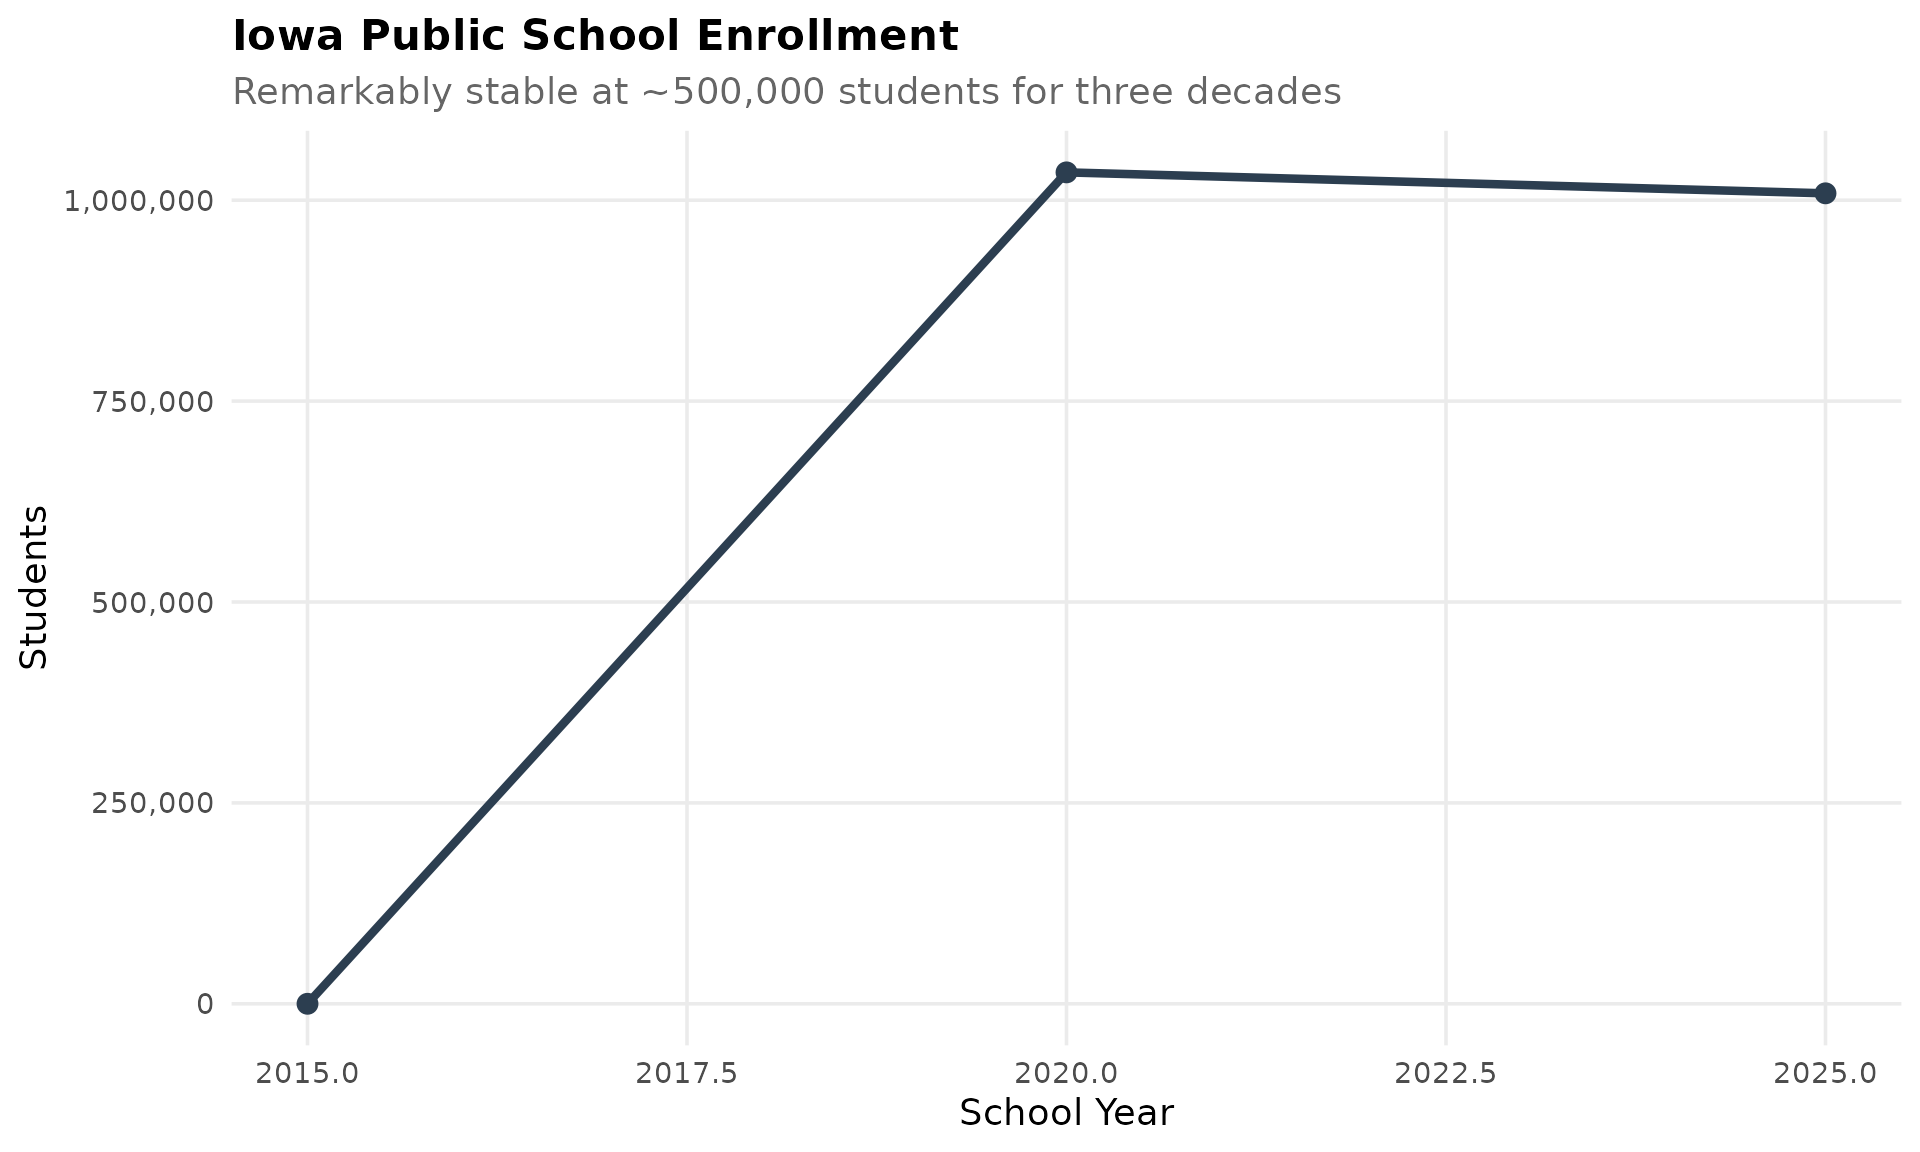
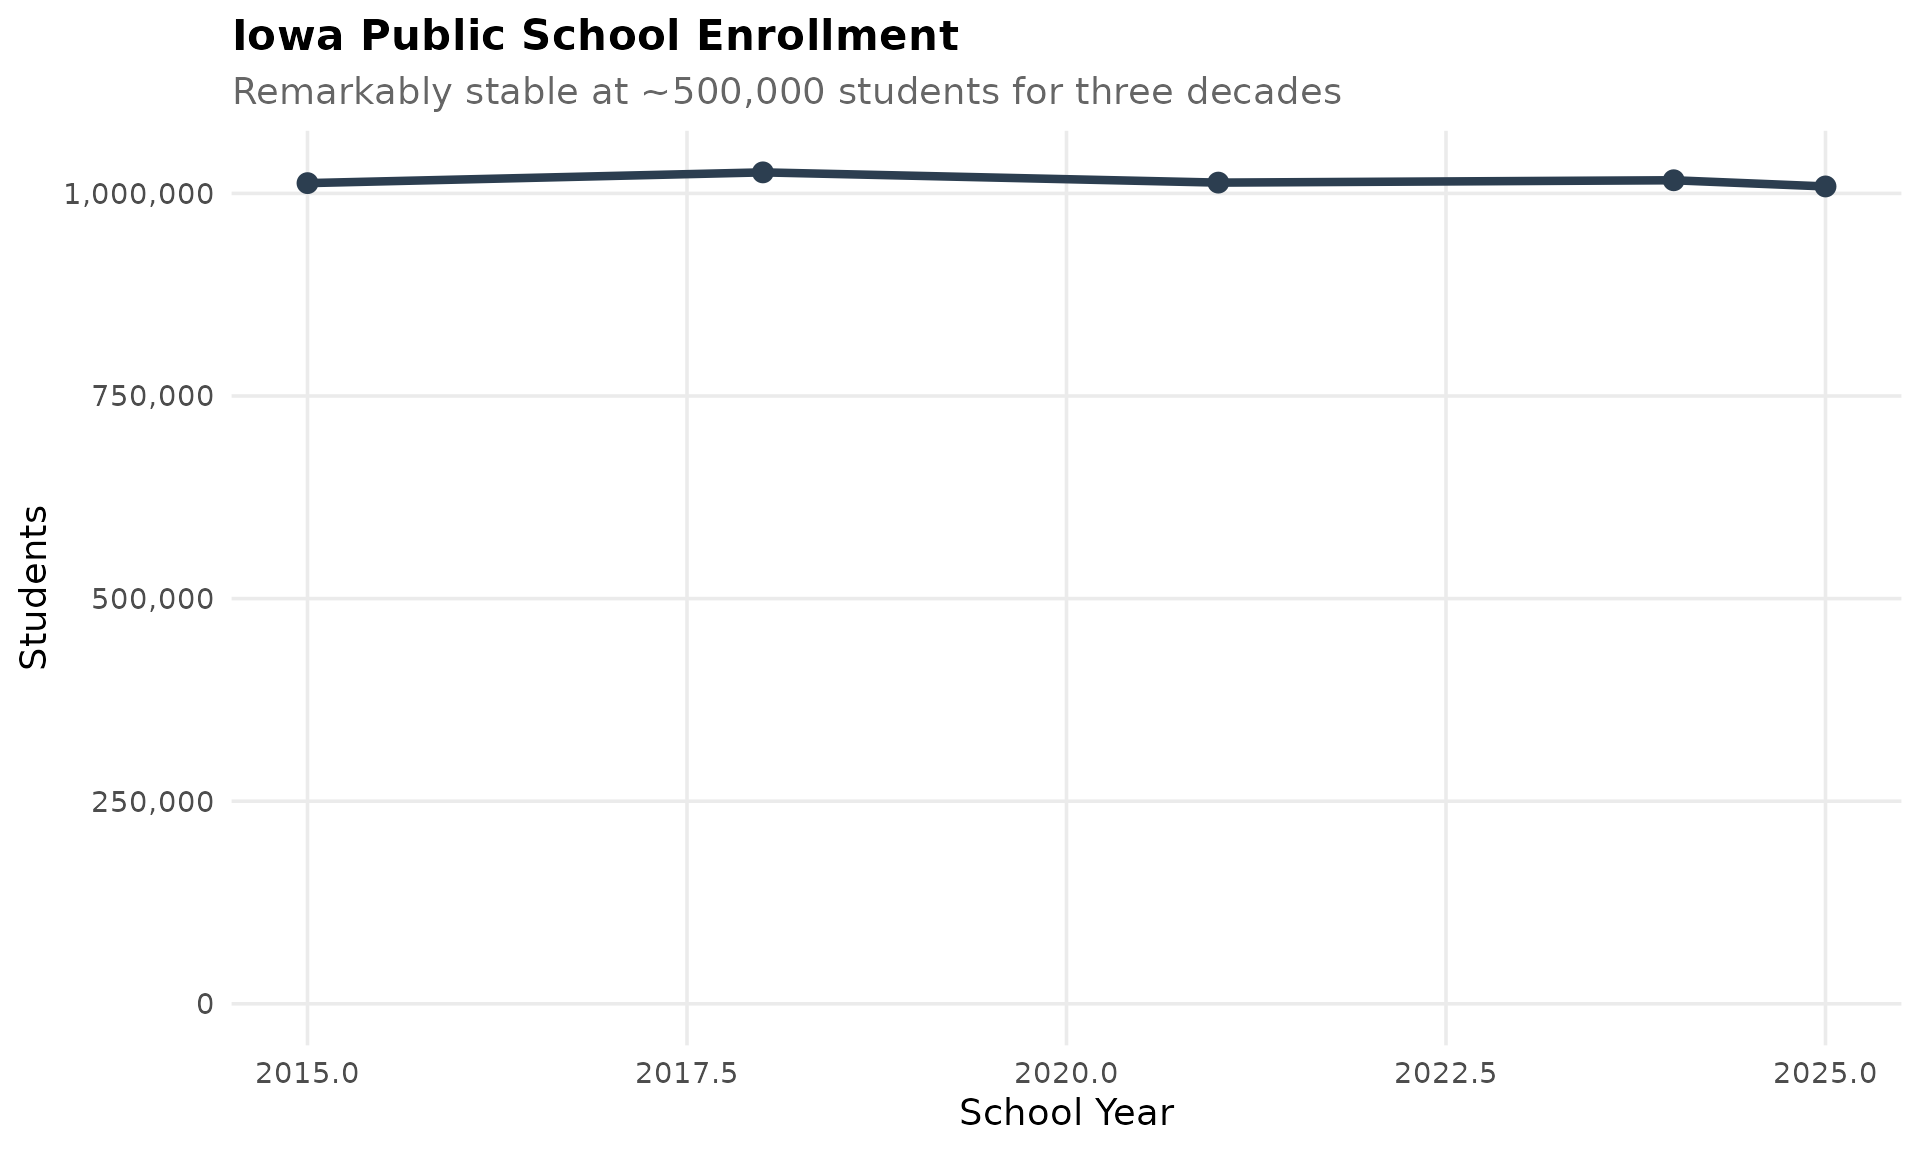
Deploying to gh-pages from @ almartin82/iaschooldata@6070437c745483dc05b7a28452383b364dd1335b 🚀

diff --git a/CLAUDE.html b/CLAUDE.html
@@ -42,12 +42,11 @@
 <hr></div>
 <div id="claude-code-instructions" class="section level1">
 
-<div class="section level2">
-<h2 id="git-commits-and-prs">Git Commits and PRs<a class="anchor" aria-label="anchor" href="#git-commits-and-prs"></a></h2>
-<ul><li>NEVER reference Claude, Claude Code, or AI assistance in commit messages</li>
-<li>NEVER reference Claude, Claude Code, or AI assistance in PR descriptions</li>
-<li>NEVER add Co-Authored-By lines mentioning Claude or Anthropic</li>
-<li>Keep commit messages focused on what changed, not how it was written</li>
+<div class="section level3">
+<h3 id="git-commit-policy">GIT COMMIT POLICY<a class="anchor" aria-label="anchor" href="#git-commit-policy"></a></h3>
+<ul><li>Commits are allowed</li>
+<li>NO Claude Code attribution, NO Co-Authored-By trailers, NO emojis</li>
+<li>Write normal commit messages as if a human wrote them</li>
 </ul><hr></div>
 <div class="section level2">
 <h2 id="local-testing-before-prs-required">Local Testing Before PRs (REQUIRED)<a class="anchor" aria-label="anchor" href="#local-testing-before-prs-required"></a></h2>
@@ -103,6 +102,41 @@
 <div class="sourceCode" id="cb2"><pre class="downlit sourceCode r">
 <code class="sourceCode R"><span><span class="fu">devtools</span><span class="fu">::</span><span class="fu">test</span><span class="op">(</span>filter <span class="op">=</span> <span class="st">"pipeline-live"</span><span class="op">)</span></span></code></pre></div>
 <p>See <code>state-schooldata/CLAUDE.md</code> for complete testing framework documentation.</p>
+<hr></div>
+</div>
+<div class="section level2">
+<h2 id="git-workflow-required">Git Workflow (REQUIRED)<a class="anchor" aria-label="anchor" href="#git-workflow-required"></a></h2>
+<div class="section level3">
+<h3 id="feature-branch--pr--auto-merge-policy">Feature Branch + PR + Auto-Merge Policy<a class="anchor" aria-label="anchor" href="#feature-branch--pr--auto-merge-policy"></a></h3>
+<p><strong>NEVER push directly to main.</strong> All changes must go through PRs with auto-merge:</p>
+<div class="sourceCode" id="cb3"><pre class="sourceCode bash"><code class="sourceCode bash"><span id="cb3-1"><a href="#cb3-1" tabindex="-1"></a><span class="co"># 1. Create feature branch</span></span>
+<span id="cb3-2"><a href="#cb3-2" tabindex="-1"></a><span class="fu">git</span> checkout <span class="at">-b</span> fix/description-of-change</span>
+<span id="cb3-3"><a href="#cb3-3" tabindex="-1"></a></span>
+<span id="cb3-4"><a href="#cb3-4" tabindex="-1"></a><span class="co"># 2. Make changes, commit</span></span>
+<span id="cb3-5"><a href="#cb3-5" tabindex="-1"></a><span class="fu">git</span> add <span class="at">-A</span></span>
+<span id="cb3-6"><a href="#cb3-6" tabindex="-1"></a><span class="fu">git</span> commit <span class="at">-m</span> <span class="st">"Fix: description of change"</span></span>
+<span id="cb3-7"><a href="#cb3-7" tabindex="-1"></a></span>
+<span id="cb3-8"><a href="#cb3-8" tabindex="-1"></a><span class="co"># 3. Push and create PR with auto-merge</span></span>
+<span id="cb3-9"><a href="#cb3-9" tabindex="-1"></a><span class="fu">git</span> push <span class="at">-u</span> origin fix/description-of-change</span>
+<span id="cb3-10"><a href="#cb3-10" tabindex="-1"></a><span class="ex">gh</span> pr create <span class="at">--title</span> <span class="st">"Fix: description"</span> <span class="at">--body</span> <span class="st">"Description of changes"</span></span>
+<span id="cb3-11"><a href="#cb3-11" tabindex="-1"></a><span class="ex">gh</span> pr merge <span class="at">--auto</span> <span class="at">--squash</span></span>
+<span id="cb3-12"><a href="#cb3-12" tabindex="-1"></a></span>
+<span id="cb3-13"><a href="#cb3-13" tabindex="-1"></a><span class="co"># 4. Clean up stale branches after PR merges</span></span>
+<span id="cb3-14"><a href="#cb3-14" tabindex="-1"></a><span class="fu">git</span> checkout main <span class="kw">&amp;&amp;</span> <span class="fu">git</span> pull <span class="kw">&amp;&amp;</span> <span class="fu">git</span> fetch <span class="at">--prune</span> origin</span></code></pre></div>
+</div>
+<div class="section level3">
+<h3 id="branch-cleanup-required">Branch Cleanup (REQUIRED)<a class="anchor" aria-label="anchor" href="#branch-cleanup-required"></a></h3>
+<p><strong>Clean up stale branches every time you touch this package:</strong></p>
+<div class="sourceCode" id="cb4"><pre class="sourceCode bash"><code class="sourceCode bash"><span id="cb4-1"><a href="#cb4-1" tabindex="-1"></a><span class="co"># Delete local branches merged to main</span></span>
+<span id="cb4-2"><a href="#cb4-2" tabindex="-1"></a><span class="fu">git</span> branch <span class="at">--merged</span> main <span class="kw">|</span> <span class="fu">grep</span> <span class="at">-v</span> main <span class="kw">|</span> <span class="fu">xargs</span> <span class="at">-r</span> git branch <span class="at">-d</span></span>
+<span id="cb4-3"><a href="#cb4-3" tabindex="-1"></a></span>
+<span id="cb4-4"><a href="#cb4-4" tabindex="-1"></a><span class="co"># Prune remote tracking branches</span></span>
+<span id="cb4-5"><a href="#cb4-5" tabindex="-1"></a><span class="fu">git</span> fetch <span class="at">--prune</span> origin</span></code></pre></div>
+</div>
+<div class="section level3">
+<h3 id="auto-merge-requirements">Auto-Merge Requirements<a class="anchor" aria-label="anchor" href="#auto-merge-requirements"></a></h3>
+<p>PRs auto-merge when ALL CI checks pass: - R-CMD-check (0 errors, 0 warnings) - Python tests (if py{st}schooldata exists) - pkgdown build (vignettes must render)</p>
+<p>If CI fails, fix the issue and push - auto-merge triggers when checks pass.</p>
 </div>
 </div>
 </div>

diff --git a/articles/enrollment-trends.html b/articles/enrollment-trends.html
@@ -93,11 +93,12 @@
 <span>  <span class="va">min_year</span> <span class="op">&lt;-</span> <span class="fu"><a href="https://rdrr.io/r/base/Extremes.html" class="external-link">min</a></span><span class="op">(</span><span class="va">years</span><span class="op">)</span></span>
 <span><span class="op">}</span></span>
 <span></span>
-<span><span class="co"># Fetch data</span></span>
-<span><span class="va">key_years</span> <span class="op">&lt;-</span> <span class="fu"><a href="https://rdrr.io/r/base/seq.html" class="external-link">seq</a></span><span class="op">(</span><span class="fu"><a href="https://rdrr.io/r/base/Extremes.html" class="external-link">max</a></span><span class="op">(</span><span class="va">min_year</span>, <span class="fl">1995</span><span class="op">)</span>, <span class="va">max_year</span>, by <span class="op">=</span> <span class="fl">5</span><span class="op">)</span></span>
+<span><span class="co"># Fetch data - use years from 2015 onwards (modern files with consistent format)</span></span>
+<span><span class="co"># Earlier years have inconsistent file formats that may fail to parse</span></span>
+<span><span class="va">key_years</span> <span class="op">&lt;-</span> <span class="fu"><a href="https://rdrr.io/r/base/seq.html" class="external-link">seq</a></span><span class="op">(</span><span class="fl">2015</span>, <span class="va">max_year</span>, by <span class="op">=</span> <span class="fl">3</span><span class="op">)</span></span>
 <span><span class="kw">if</span> <span class="op">(</span><span class="op">!</span><span class="va">max_year</span> <span class="op"><a href="https://rdrr.io/r/base/match.html" class="external-link">%in%</a></span> <span class="va">key_years</span><span class="op">)</span> <span class="va">key_years</span> <span class="op">&lt;-</span> <span class="fu"><a href="https://rdrr.io/r/base/c.html" class="external-link">c</a></span><span class="op">(</span><span class="va">key_years</span>, <span class="va">max_year</span><span class="op">)</span></span>
 <span><span class="va">enr</span> <span class="op">&lt;-</span> <span class="fu"><a href="../reference/fetch_enr_multi.html">fetch_enr_multi</a></span><span class="op">(</span><span class="va">key_years</span><span class="op">)</span></span>
-<span><span class="va">enr_recent</span> <span class="op">&lt;-</span> <span class="fu"><a href="../reference/fetch_enr_multi.html">fetch_enr_multi</a></span><span class="op">(</span><span class="op">(</span><span class="va">max_year</span> <span class="op">-</span> <span class="fl">10</span><span class="op">)</span><span class="op">:</span><span class="va">max_year</span><span class="op">)</span></span>
+<span><span class="va">enr_recent</span> <span class="op">&lt;-</span> <span class="fu"><a href="../reference/fetch_enr_multi.html">fetch_enr_multi</a></span><span class="op">(</span><span class="op">(</span><span class="va">max_year</span> <span class="op">-</span> <span class="fl">5</span><span class="op">)</span><span class="op">:</span><span class="va">max_year</span><span class="op">)</span></span>
 <span><span class="va">enr_current</span> <span class="op">&lt;-</span> <span class="fu"><a href="../reference/fetch_enr.html">fetch_enr</a></span><span class="op">(</span><span class="va">max_year</span><span class="op">)</span></span></code></pre></div>
 <div class="section level2">
 <h2 id="iowas-enrollment-is-remarkably-stable">1. Iowa’s enrollment is remarkably stable<a class="anchor" aria-label="anchor" href="#iowas-enrollment-is-remarkably-stable"></a>

diff --git a/index.html b/index.html
@@ -92,7 +92,7 @@
 </h2>
 <div class="sourceCode" id="cb1"><pre class="downlit sourceCode r">
 <code class="sourceCode R"><span><span class="co"># install.packages("remotes")</span></span>
-<span><span class="fu">remotes</span><span class="fu">::</span><span class="fu">install_github</span><span class="op">(</span><span class="st">"almartin82/iaschooldata"</span><span class="op">)</span></span></code></pre></div>
+<span><span class="fu">remotes</span><span class="fu">::</span><span class="fu"><a href="https://remotes.r-lib.org/reference/install_github.html" class="external-link">install_github</a></span><span class="op">(</span><span class="st">"almartin82/iaschooldata"</span><span class="op">)</span></span></code></pre></div>
 </div>
 <div class="section level2">
 <h2 id="quick-start">Quick start<a class="anchor" aria-label="anchor" href="#quick-start"></a>

diff --git a/CLAUDE.md b/CLAUDE.md
@@ -11,14 +11,11 @@ federal data.
 
 ------------------------------------------------------------------------
 
-## Git Commits and PRs
+### GIT COMMIT POLICY
 
-- NEVER reference Claude, Claude Code, or AI assistance in commit
-  messages
-- NEVER reference Claude, Claude Code, or AI assistance in PR
-  descriptions
-- NEVER add Co-Authored-By lines mentioning Claude or Anthropic
-- Keep commit messages focused on what changed, not how it was written
+- Commits are allowed
+- NO Claude Code attribution, NO Co-Authored-By trailers, NO emojis
+- Write normal commit messages as if a human wrote them
 
 ------------------------------------------------------------------------
 
@@ -82,3 +79,50 @@ devtools::test(filter = "pipeline-live")
 
 See `state-schooldata/CLAUDE.md` for complete testing framework
 documentation.
+
+------------------------------------------------------------------------
+
+## Git Workflow (REQUIRED)
+
+### Feature Branch + PR + Auto-Merge Policy
+
+**NEVER push directly to main.** All changes must go through PRs with
+auto-merge:
+
+``` bash
+# 1. Create feature branch
+git checkout -b fix/description-of-change
+
+# 2. Make changes, commit
+git add -A
+git commit -m "Fix: description of change"
+
+# 3. Push and create PR with auto-merge
+git push -u origin fix/description-of-change
+gh pr create --title "Fix: description" --body "Description of changes"
+gh pr merge --auto --squash
+
+# 4. Clean up stale branches after PR merges
+git checkout main && git pull && git fetch --prune origin
+```
+
+### Branch Cleanup (REQUIRED)
+
+**Clean up stale branches every time you touch this package:**
+
+``` bash
+# Delete local branches merged to main
+git branch --merged main | grep -v main | xargs -r git branch -d
+
+# Prune remote tracking branches
+git fetch --prune origin
+```
+
+### Auto-Merge Requirements
+
+PRs auto-merge when ALL CI checks pass: - R-CMD-check (0 errors, 0
+warnings) - Python tests (if py{st}schooldata exists) - pkgdown build
+(vignettes must render)
+
+If CI fails, fix the issue and push - auto-merge triggers when checks
+pass.

diff --git a/articles/enrollment-trends.md b/articles/enrollment-trends.md
@@ -33,11 +33,12 @@ if (is.list(years)) {
   min_year <- min(years)
 }
 
-# Fetch data
-key_years <- seq(max(min_year, 1995), max_year, by = 5)
+# Fetch data - use years from 2015 onwards (modern files with consistent format)
+# Earlier years have inconsistent file formats that may fail to parse
+key_years <- seq(2015, max_year, by = 3)
 if (!max_year %in% key_years) key_years <- c(key_years, max_year)
 enr <- fetch_enr_multi(key_years)
-enr_recent <- fetch_enr_multi((max_year - 10):max_year)
+enr_recent <- fetch_enr_multi((max_year - 5):max_year)
 enr_current <- fetch_enr(max_year)
 ```
 
